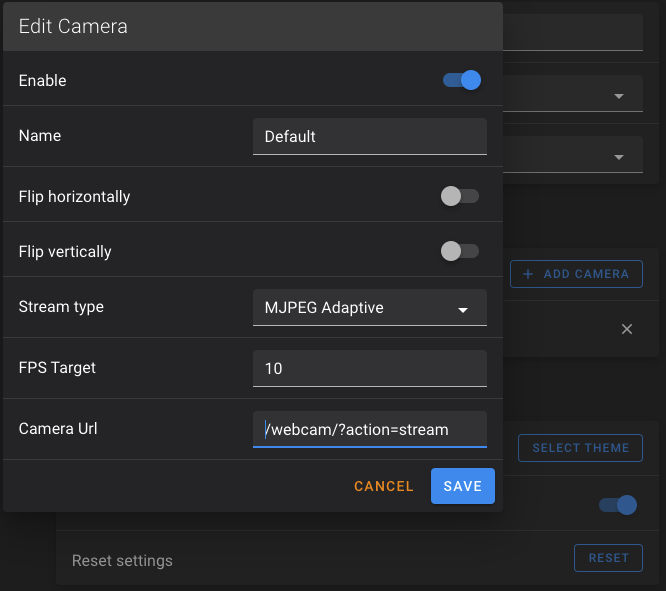
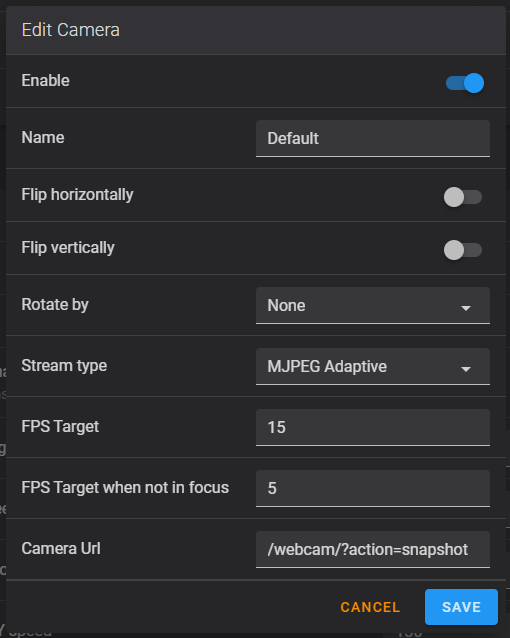
docs: reflect latest features

diff --git a/docs/features/cameras.md b/docs/features/cameras.md
@@ -26,20 +26,24 @@ You can add up to four cameras to display on your dashboard.
 
 Currently supported types are;
 
-- MJPEG Stream
+- MJPEG Stream  
   This is the traditional mjpegstream service. The service pushes images to
   fluidd at the configured resolution and FPS you have setup. This requires
   a lot of bandwidth, and can cause issues with unstable network connections.
 
-- MJPEG Adaptive
+- MJPEG Adaptive  
   This will PULL images from the mjpegstream service, using the snapshot URL.
   You can set a target FPS, and your browser will try to keep up with the
   intended target. This can be a more reliable approach for some.
 
-- IP Camera
+- IP Camera  
   This is an experimental option. Effectively, it swaps out the `<img>` tag
   for a `<video>` tag. You should only use this if you can provide a URL
   that supports native HTML5 video tags.
+
+- HTTP Page  
+  Loads a website and displays it in place of the camera feed.
+  This lets you embed any web video feed not supported by the methods mentioned above.
 
 Head on over to the UI Settings page to define your cameras.
 
